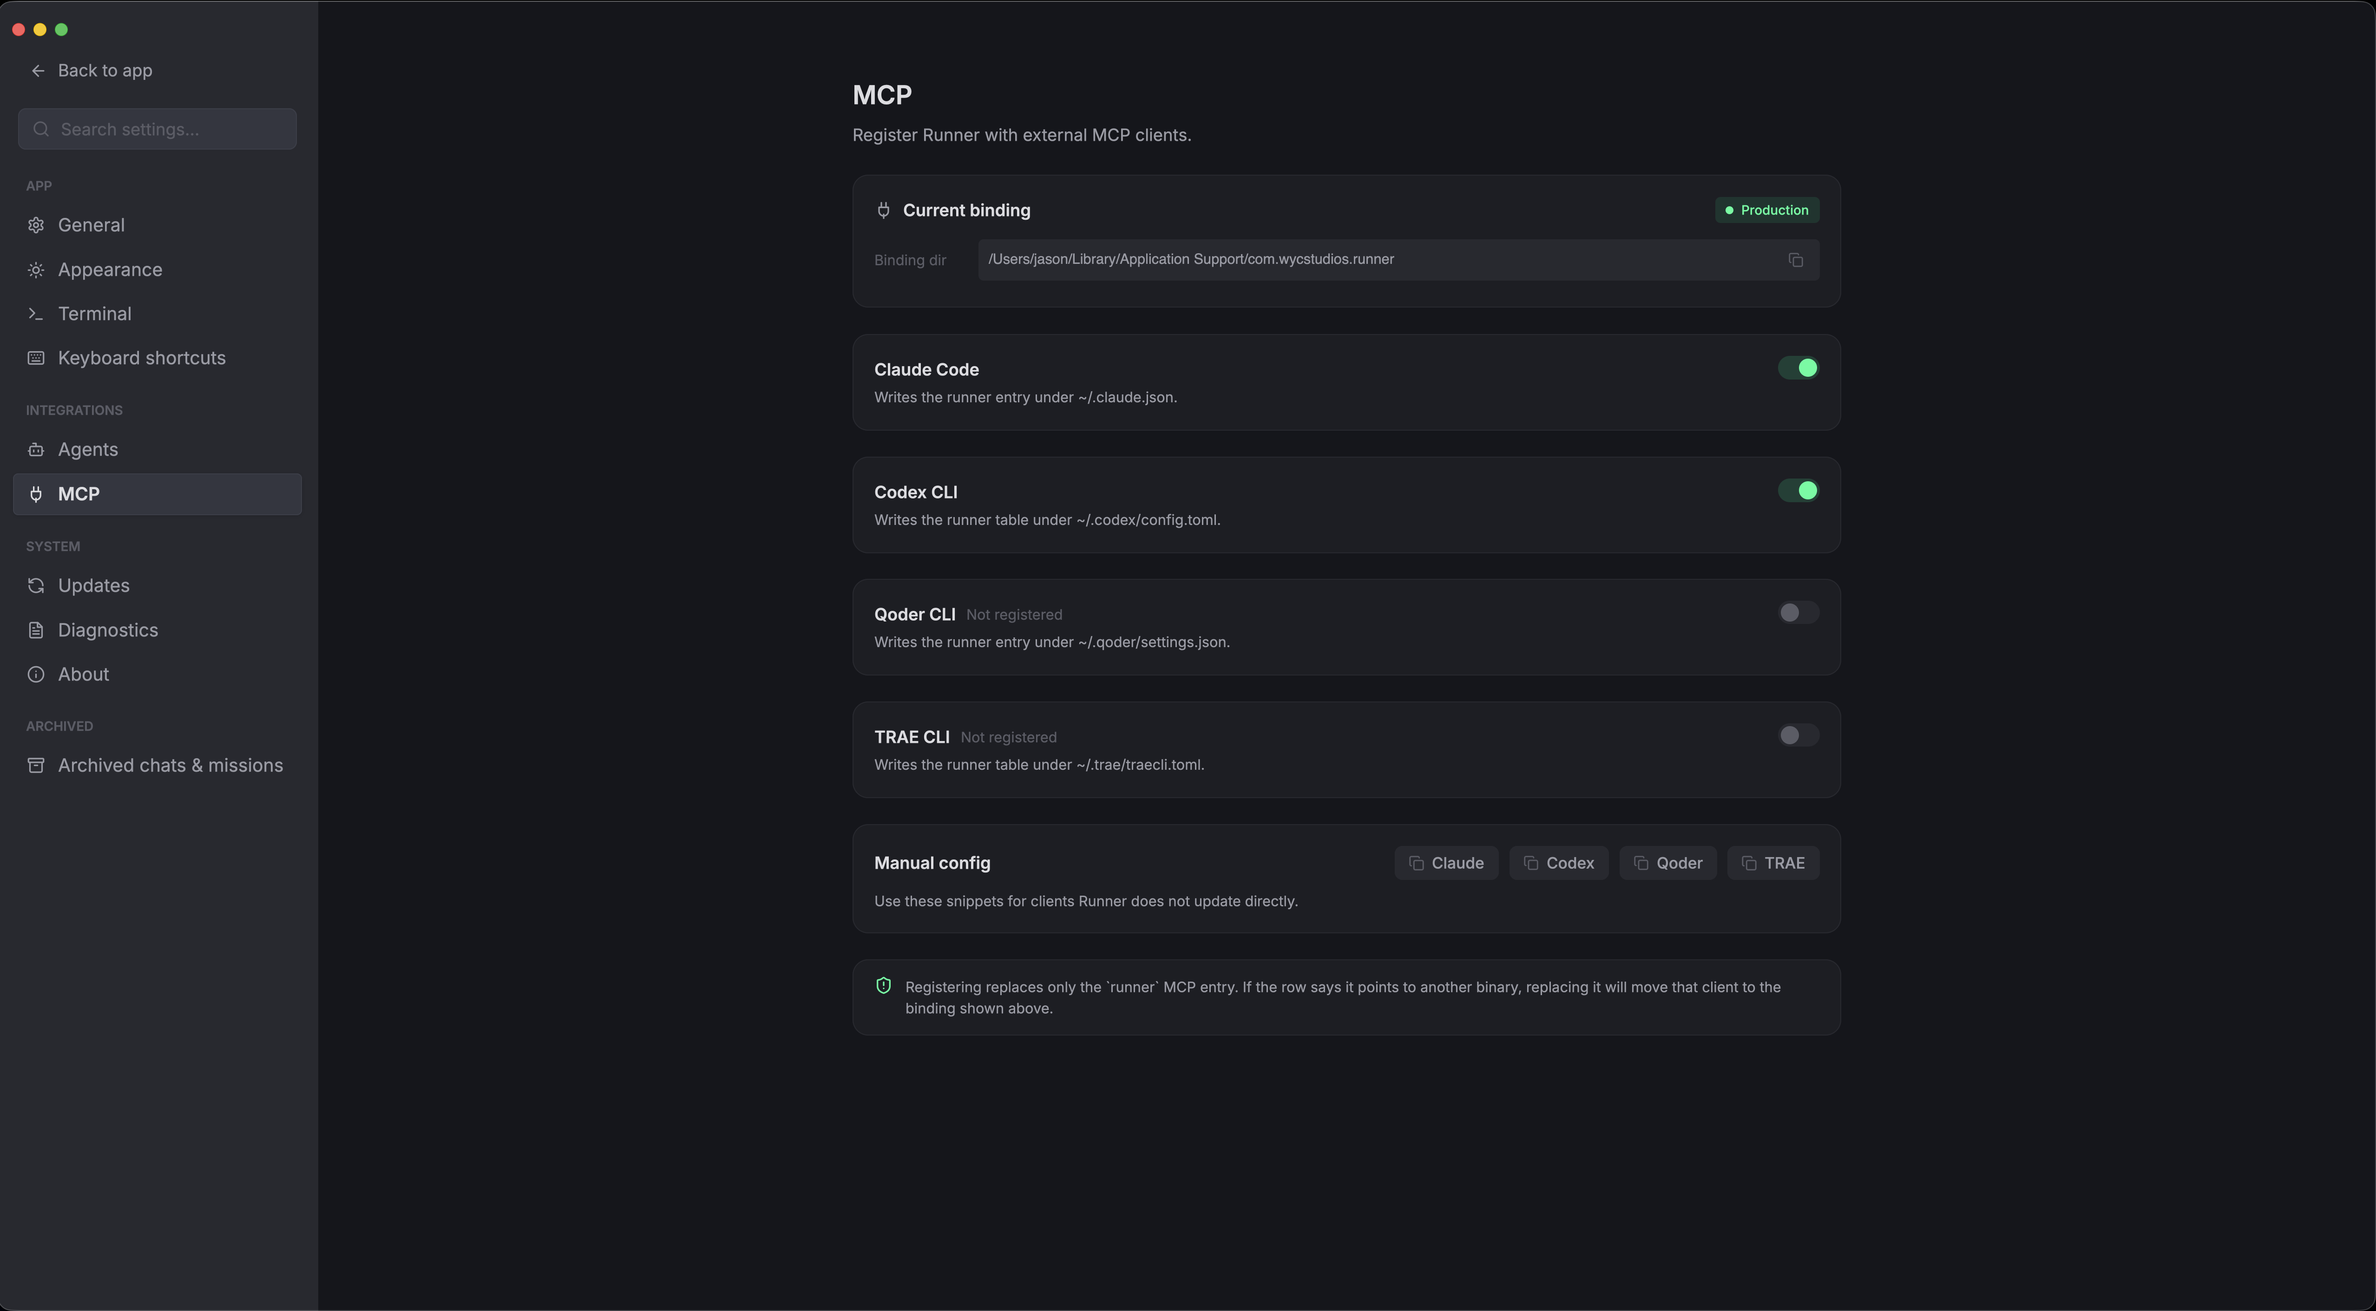
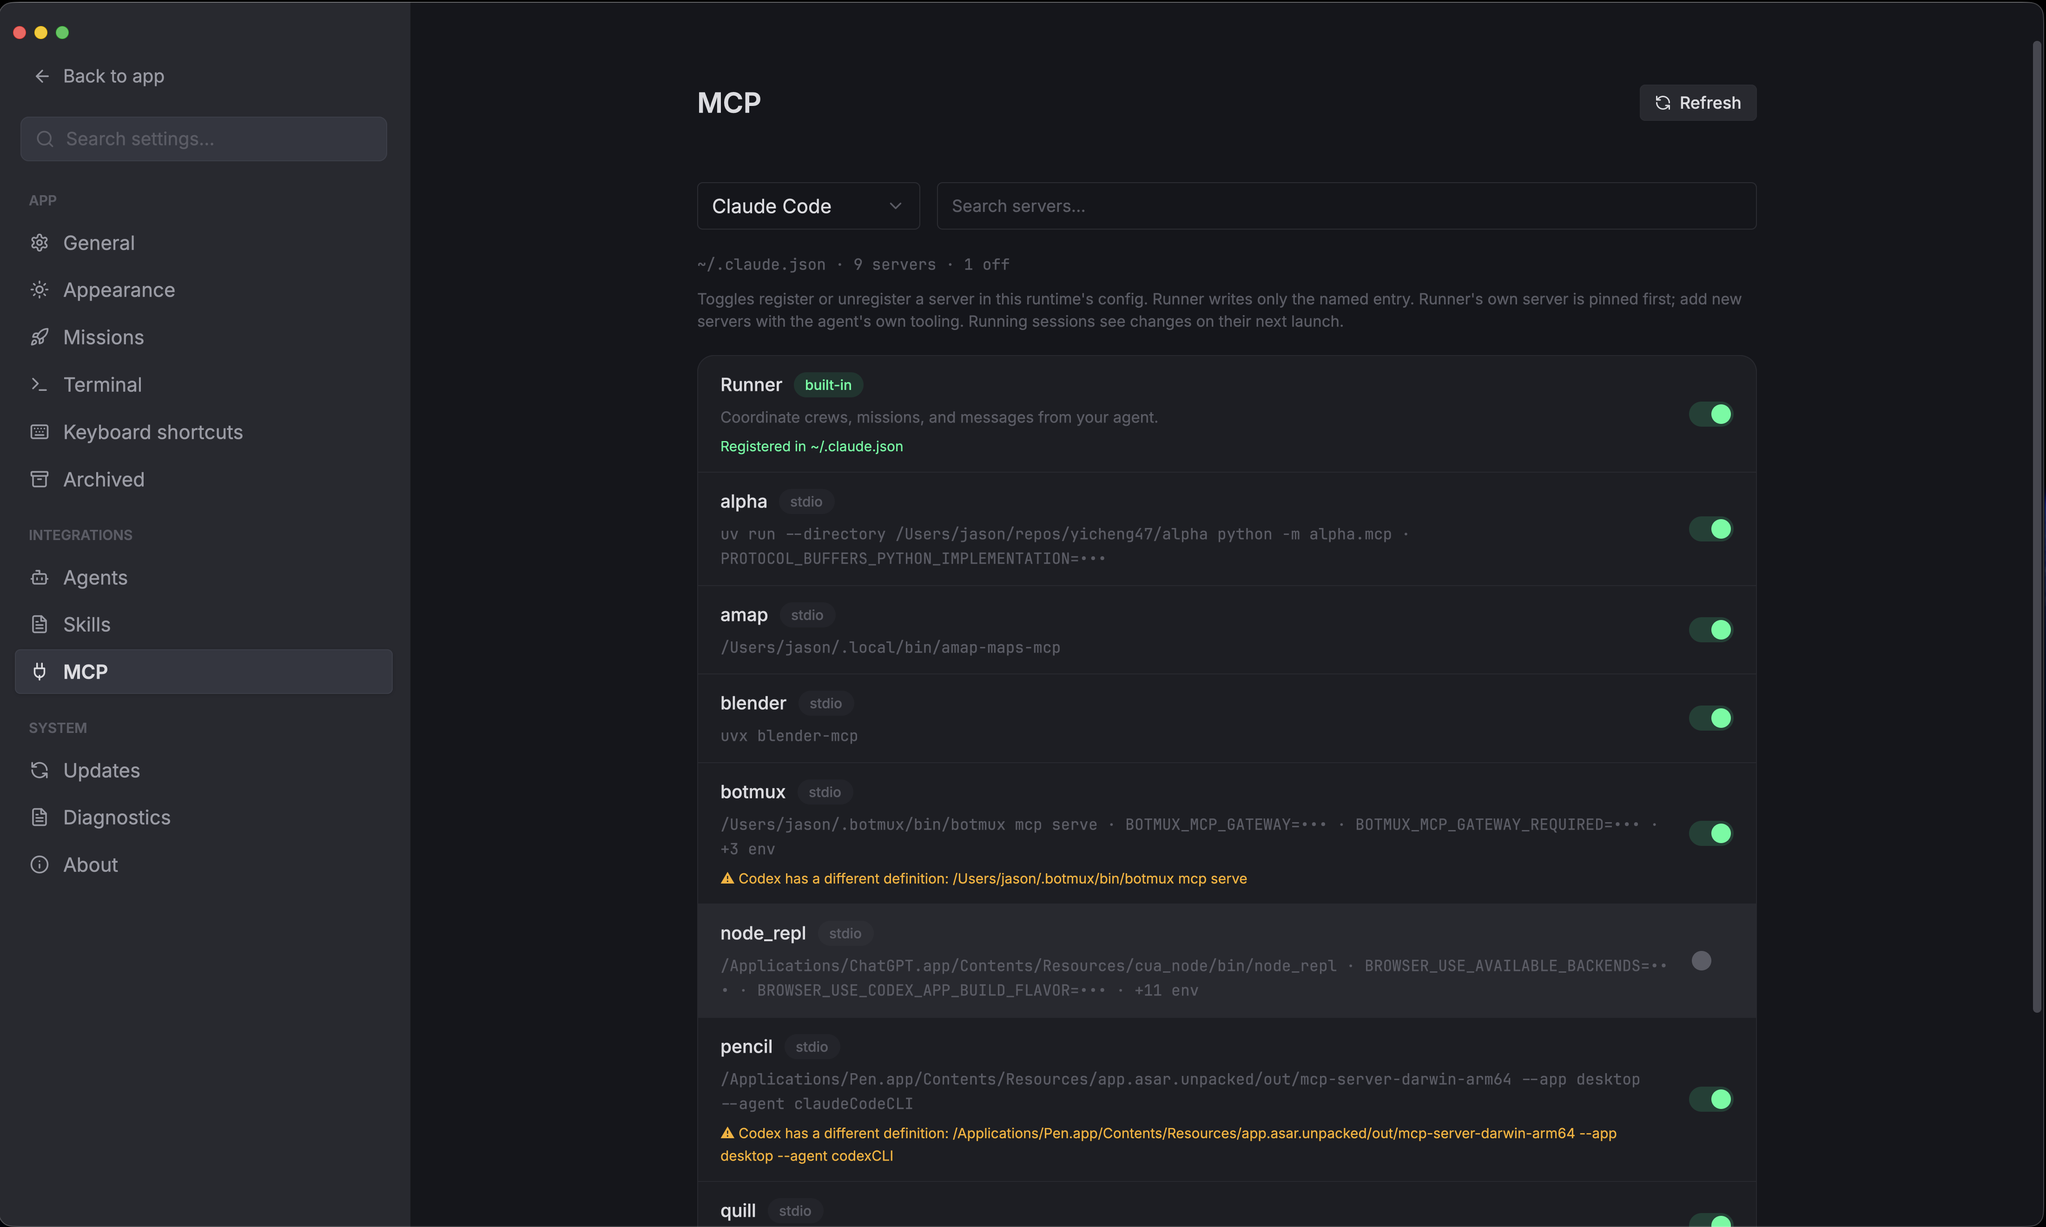
docs(readme): badge header, hero, Skills and Appearance cards, the missing features (566)
Claude-Session: https://claude.ai/code/session_01Cq24vPoKBLyGX6EwcHPpN4

diff --git a/README.md b/README.md
@@ -6,9 +6,29 @@
 </h1>
 
 <p align="center">
-  Spawn a runner. Create your crew. Ship the feature.
+  <a href="https://github.com/yicheng47/runner/stargazers"><img src="https://img.shields.io/github/stars/yicheng47/runner?style=flat-square&logo=github&label=stars" alt="GitHub stars" /></a>
+  <a href="https://github.com/yicheng47/runner/releases"><img src="https://img.shields.io/github/downloads/yicheng47/runner/total?style=flat-square&label=downloads" alt="Downloads" /></a>
+  <a href="./LICENSE"><img src="https://img.shields.io/github/license/yicheng47/runner?style=flat-square" alt="License" /></a>
+  <a href="#community"><img src="https://img.shields.io/badge/WeChat-user%20group-07C160?style=flat-square&logo=wechat&logoColor=white" alt="WeChat user group" /></a>
+  <a href="#download"><img src="https://img.shields.io/badge/macOS%20%7C%20Windows-native-2ea44f?style=flat-square" alt="macOS and Windows" /></a>
+</p>
+
+<p align="center">
+  English · <a href="./README.zh-CN.md">简体中文</a>
+</p>
+
+<p align="center">
+  <strong>Spawn a runner. Create your crew. Ship the feature.</strong>
   <br />
   A native terminal that orchestrates coding agents. Claude Code and Codex keep their own TUI; Runner adds sessions, skills, and crews.
+</p>
+
+<p align="center">
+  <a href="https://github.com/yicheng47/runner/releases/latest"><strong>Download Runner</strong></a>
+</p>
+
+<p align="center">
+  <img src="assets/hero.png" alt="Runner — one tab with a Claude Code and two Codex sessions side by side, projects and chats in the sidebar" width="100%" />
 </p>
 
 <p align="center">
@@ -29,11 +49,7 @@
   <a href="./AGENTS.md">Contributing</a>
 </p>
 
----
-
 > Status: alpha, actively shipping. Native macOS (Apple Silicon) and Windows (x64), with Windows support starting in 0.8.0.
-
----
 
 ## About
 
@@ -49,13 +65,11 @@ Runner is a native macOS and Windows app written in Rust: [gpui-ce](https://gith
 
 ## Download
 
-Download the latest macOS build (Apple Silicon `.dmg`) from the [releases page](https://github.com/yicheng47/runner/releases/latest). Signed and notarized, with updates through Sparkle. Intel Macs and Linux are not supported.
+Grab the latest build from the [releases page](https://github.com/yicheng47/runner/releases/latest): a signed and notarized `.dmg` for macOS on Apple Silicon, and a signed `Runner-Setup-…-x64.exe` installer for Windows 10 version 1809 or later. Intel Macs, Windows ARM64, and Linux are not supported.
 
-Starting with **0.8.0**, Windows x64 installers (`Runner-Setup-…-x64.exe`) are available alongside the Mac DMG on the [releases page](https://github.com/yicheng47/runner/releases/latest). Windows 10 version 1809 or later is required.
+Both platforms update in place, macOS through Sparkle and Windows through the update icon beside Settings, and keep your settings, chats, and missions. On Windows, SmartScreen may still warn on a fresh release while the certificate builds reputation; **More info → Run anyway** continues.
 
-The Windows installer, app, and CLI sidecars are **Authenticode-signed** with a Certum open-source code-signing certificate; Windows names the publisher as **Open Source Developer Yicheng Wang**. SmartScreen builds reputation per certificate, so a brand-new release may still show **Windows protected your PC** with that publisher named; **More info → Run anyway** continues the installation. Signed nightlies share the certificate.
-
-Runner checks for Windows updates at startup and every six hours, downloads them in the background by default, and verifies their minisign signatures. Open the update icon beside Settings or **Settings → Updates → Update**, then choose **Install and restart**. Settings, chats, and missions are retained. Turn off **Automatically download updates** to download only when you choose.
+Want what landed today instead? The [`nightly` prerelease](https://github.com/yicheng47/runner/releases/tag/nightly) is built from `main` for both platforms, signed the same way, and updates on its own channel.
 
 ## Demo
 
@@ -132,13 +146,39 @@ Every pane is a real PTY behind an `alacritty_terminal` grid, drawn by GPUI on t
 </tr>
 <tr>
 <td width="50%">
-  <img src="assets/mcp_settings.png" alt="Settings → MCP — one-click config for Claude Code and Codex" width="100%" />
+  <img src="assets/mcp_settings.png" alt="Settings → MCP — every MCP server each agent has, with Runner's own pinned first" width="100%" />
 </td>
 <td width="50%" valign="middle">
 
 ### Drive it from your agents (MCP)
 
-Everything above is also an MCP tool. Runner bundles a `runner-mcp` stdio sidecar, and **Settings → Agents** registers it with Claude Code, Codex and TRAE CLI on both platforms. Connected agents assemble crews, start and steer missions (`mission_start`, `mission_feed`, `mission_post_human_signal`), and spin up chats (`session_start_direct`). The compounding trick: your daily driver agent plans a fix, dispatches a coder/reviewer crew, and keeps working — agents dispatching crews of agents, every session still a real PTY you can open and watch.
+Everything above is also an MCP tool. Runner bundles a `runner-mcp` stdio sidecar and registers it with Claude Code, Codex and TRAE CLI from **Settings → Agents**. Connected agents assemble crews, create and file projects, start and steer missions (`mission_start`, `mission_feed`, `mission_post_human_signal`), and spin up chats (`session_start_direct`). The compounding trick: your daily driver agent plans a fix, dispatches a coder/reviewer crew, and keeps working — agents dispatching crews of agents, every session still a real PTY you can open and watch.
+
+**Settings → MCP** is the other direction: one catalog of every MCP server each agent has configured, read from the agent's own config file, with a toggle per server and Runner's own pinned first.
+
+</td>
+</tr>
+<tr>
+<td width="50%">
+  <img src="assets/skills.png" alt="Settings → Skills — every skill an agent can load, with a toggle per skill" width="100%" />
+</td>
+<td width="50%" valign="middle">
+
+### Skills — one list per agent
+
+**Settings → Skills** lists the skills each agent loads, read from the agent's own skill directory. Click a row to read a skill, hover it to edit, flip the toggle to hide it from every new session of that agent, inside Runner or not. Runner writes only the agent's own override key, never the skill itself.
+
+</td>
+</tr>
+<tr>
+<td width="50%">
+  <img src="assets/appearance.png" alt="Settings → Appearance — light and dark previews with an app and a terminal palette per mode" width="100%" />
+</td>
+<td width="50%" valign="middle">
+
+### Light, dark, and the terminal in between
+
+Runner Light and Carbon are designed for Runner; Catppuccin Latte and Mocha ride along. **Settings → Appearance** picks an app palette and a terminal palette per mode above a live preview of both, so a light app gets a light terminal without a second setting, and a Claude Code chat follows the flip the moment it happens. Rosé Pine Dawn is the default light terminal.
 
 </td>
 </tr>
@@ -146,9 +186,11 @@ Everything above is also an MCP tool. Runner bundles a `runner-mcp` stdio sideca
 
 ### Also in the box
 
-- **Projects** — bind a working directory once; chats and missions started inside a project inherit its cwd and stay grouped in their own sidebar section.
-- **Themes** — Auto / Light / Dark chrome with an app palette and a terminal palette per mode (Runner and Catppuccin Mocha dark; Runner Light and Catppuccin Latte light; Rosé Pine Dawn, Runner and Catppuccin Mocha for terminals), a live preview of both modes in Settings → Appearance, Inter bundled as the UI font, and JetBrains Mono (the Nerd Font Mono build) bundled for terminals.
-- **Updates** — macOS releases update through Sparkle. Windows downloads and verifies newer builds in the background; the update icon beside Settings opens a dialog with **Install and restart**, retaining your data.
+- **Projects** — bind a working directory once; chats and missions started inside a project inherit its cwd and stay grouped in their own sidebar section. Agents can create, rename, file into, and delete projects over MCP too.
+- **Terminal drawer** — a shell beneath every chat and every mission, in the same directory as the agent above it, one shortcut away.
+- **Mission controls** — stop, resume, or restart a single slot without restarting the mission; a restarted runner comes back fresh with its original brief. Missions run in Bypass permission mode by default, with Accept-edits and Default a setting away, and never stall on an agent's first-run consent dialog.
+- **Sessions that outlive the app** — quitting or crashing does not kill your agents; the next launch reattaches to the sessions still running, and a quit while work is in flight asks first.
+- **Terminal extras** — click a file path in any terminal to open it in your editor; select some output and ask about it in a side thread forked from the chat; ⌘+ and ⌘− zoom the whole app from 60% to 200%.
 - **Bundled `runner` CLI** — spawned agents message each other, check the crew roster, and post signals from inside their own PTYs.
 
 ## Supported agents

diff --git a/docs/features/566-readme-refresh-and-chinese.md b/docs/features/566-readme-refresh-and-chinese.md
@@ -1,0 +1,41 @@
+# 566 — A refreshed README, in English and 简体中文
+
+> Tracking issue: [#566](https://github.com/yicheng47/runner/issues/566)
+> Priority: P2.
+
+## Motivation
+
+The README is Runner's front page on GitHub and the first thing a new user reads. Two things are wrong with it. It has no Chinese version, while the WeChat user group shows a growing share of users who read Chinese first; today the only 中文 on the page is the group's QR caption. And the English text has drifted behind the app: it was repositioned on 2026-09-09 and its Themes and Download lines were touched since, but it still describes the product as it stood in late August. An audit against the specs archived since the 0.6.0 cutover finds these gaps:
+
+- Not mentioned at all: the terminal drawers under chats and missions (#469, #474); stop, resume and restart of a single mission slot (#542); mission permission modes with Bypass by default and no first-run prompt (#527, #541); the Settings → MCP catalog of every agent's servers (#555); the Settings → Skills pane (#73); `project_*` and `mission_set_project` on the MCP server (#554); opening terminal file links in your editor (#458); asking about a selection in a side thread (#511); app zoom from 60% to 200% (#549); the nightly channel and how to get on it (#502, #504, #505); the quit confirmation while work is running (#491); sessions outliving the app process (#466).
+- Stale: the MCP feature card and its `assets/mcp_settings.png` describe the pane retired in #530, and the card's text says Settings → Agents registers the server while the catalog now lives in Settings → MCP; `crew.png`, `chat_split.png` and `multi_window.png` predate Runner Light and the current sidebar; "Also in the box" is four bullets for a much larger box.
+
+## Scope
+
+### In scope
+
+- **`README.zh-CN.md`** at the repository root: a full 简体中文 rendering of `README.md` with the same section order, the same images, links and tables, and the same code and file names. Product terms stay as the app shows them (Runner, crew, mission, runner, Settings → Appearance, Sparkle, Nightly), in the style the 中文 half of the release notes already uses; once #565 ships an in-app 简体中文 glossary, the README follows it. The WeChat section moves up in the Chinese file, since it is the audience's contact point, and stays where it is in the English one.
+- **Language switch.** One line under the title in both files, `English · 简体中文`, each linking to the other file. No flags, no badges.
+- **English refresh.** Every gap in the audit list either gets a sentence in the feature table, a bullet in "Also in the box", or a deliberate skip recorded in the PR. The MCP card is rewritten in two halves: Settings → Agents registers Runner's own server with each agent, Settings → MCP catalogs every server each agent has; its screenshot is re-shot on the catalog. `crew.png`, `chat_split.png` and `multi_window.png` are re-shot on 0.8.7 in Carbon at the same window size as `mission_feed.png`. The Download section gains one paragraph on the nightly channel: what it is, where the `nightly` prerelease lives, and that it shares the release certificate.
+- **Sync convention.** One line in `AGENTS.md` under Engineering Conventions: a change to `README.md` lands with the matching change to `README.zh-CN.md` in the same PR, and a PR that cannot translate marks the stale paragraph with `<!-- TODO zh-CN -->` rather than leaving it silently behind.
+
+### Out of scope
+
+- Localising the app's UI, which is #565.
+- The landing page, #468, and any web copy.
+- Rewriting `docs/`; the README links there and those documents have their own owners.
+- A translation of `AGENTS.md` or the example crews' prompts.
+
+## Implementation Phases
+
+1. **English refresh.** The audit list into the README, the MCP card split, the four screenshots re-shot, the nightly paragraph. Ships on its own PR so the Chinese file translates a settled text.
+2. **简体中文 README.** `README.zh-CN.md` and the language switch in both files.
+3. **Convention.** The `AGENTS.md` line, in the same PR as phase 2.
+
+## Verification
+
+- [ ] Every issue in the audit list is either named in `README.md` or listed as skipped in the PR description.
+- [ ] `assets/mcp_settings.png` shows the Settings → MCP catalog; `crew.png`, `chat_split.png` and `multi_window.png` show 0.8.7.
+- [ ] `README.zh-CN.md` has the same headings in the same order as `README.md`, every image and link resolves, and every file name and issue number matches the English.
+- [ ] Both files open with the language switch and each link lands on the other file on GitHub.
+- [ ] `AGENTS.md` carries the sync convention.

diff --git a/docs/features/README.md b/docs/features/README.md
@@ -13,6 +13,7 @@ Since the GPUI rewrite shipped as `v0.6.0` (2026-08-23) there is one line of wor
 
 ## Index
 
+- [566 — A refreshed README, in English and 简体中文](./566-readme-refresh-and-chinese.md) — a `README.zh-CN.md` at the root with a one-line language switch in both files, an audit-driven refresh of the English README (drawers, slot controls, permission modes, the MCP catalog and Skills panes, MCP project tools, editor links, zoom, the nightly channel; four screenshots re-shot on 0.8.7; the MCP card split into Agents registration and the MCP catalog), and an `AGENTS.md` rule that both files change in the same PR ([#566](https://github.com/yicheng47/runner/issues/566)).
 - [565 — i18n: Runner's UI in the user's language, 简体中文 first](./565-i18n.md) — a `language` setting (`system` / `en` / `zh-hans`, default system, resolved through `sys-locale` with `zh-*` → Simplified) as a segmented row in Settings → General, a hand-rolled catalog (`crates/runner-app/i18n/<tag>.toml` embedded at compile time, `t` / `tf` / `tn` returning `SharedString`, a process-wide active locale like the theme variant, English fallback, a completeness test over keys and placeholders), a live switch that re-renders every window plus the menu bar, extraction of every user-facing literal in the app crate including keymap titles keyed by id, enum word-labels, and the six date patterns, then `zh-hans.toml` against a signed-off glossary and a CJK font fallback; agent-facing text, backend error prose, terminal content, other languages, and the landing page stay out ([#565](https://github.com/yicheng47/runner/issues/565)).
 - [562 — Add runners to a running mission](./562-mission-add-runner.md) — the crew stays a template but the mission's roster grows: mission-scoped slots (`slots.mission_id`, invisible to the crew page, deleted with the mission), one `mission_add_runner` op that inserts the slot, registers a worker session with the cold-start first turn, adds the handle to the router, bus, and `roster.json`, appends a `runner_added` signal plus a `runner` broadcast introducing the newcomer both ways and the requester's note as a directed message, then spawns through the mission's cancel flag; the lead adds via `runner signal add_runner` (lead-only, unknown template and taken handle and the 8-slot cap bounce as `mission_warning`), the human via a **+ Add runner** row and modal in the rail, MCP via `mission_add_runner`; removing, promoting into the crew, changing the lead, and add-time model/effort stay out ([#562](https://github.com/yicheng47/runner/issues/562)).
 - [559 — Command palette on ⌘⇧P](./559-command-palette.md) — a VS Code-style command palette over the keymap: ⌘⇧P opens the existing ⌘K overlay in command mode (and `>` as the first character of a ⌘K query does the same), one row per `KeymapEntry` plus the shortcut-less actions with the live shortcut pill, scope-gated by `KeymapScope` from the focus captured at open, selection dispatching the same GPUI action the shortcut does, a persisted five-item Recent group, and all-words substring matching; the ⌘K entry is retitled Quick switcher with its id kept. Chords, argument-taking commands, fuzzy ranking, and new actions stay out ([#559](https://github.com/yicheng47/runner/issues/559)).
